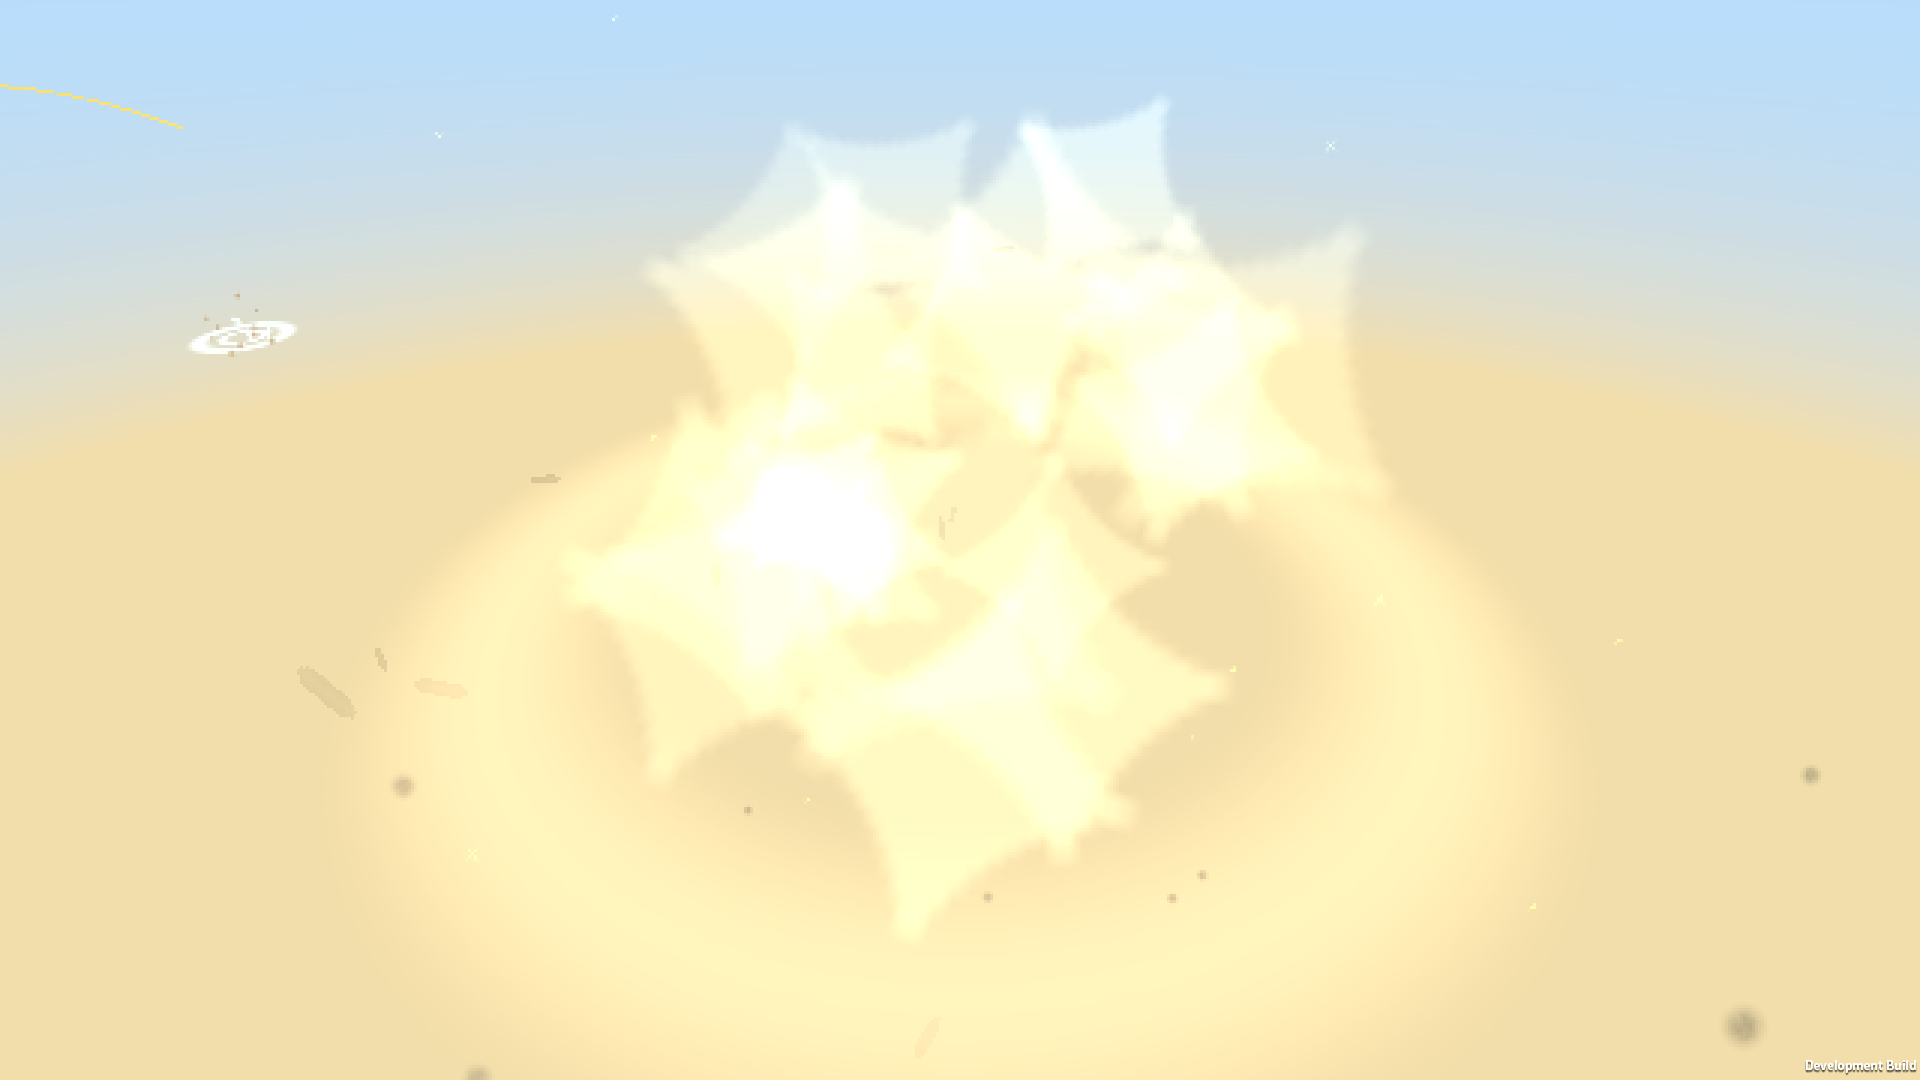
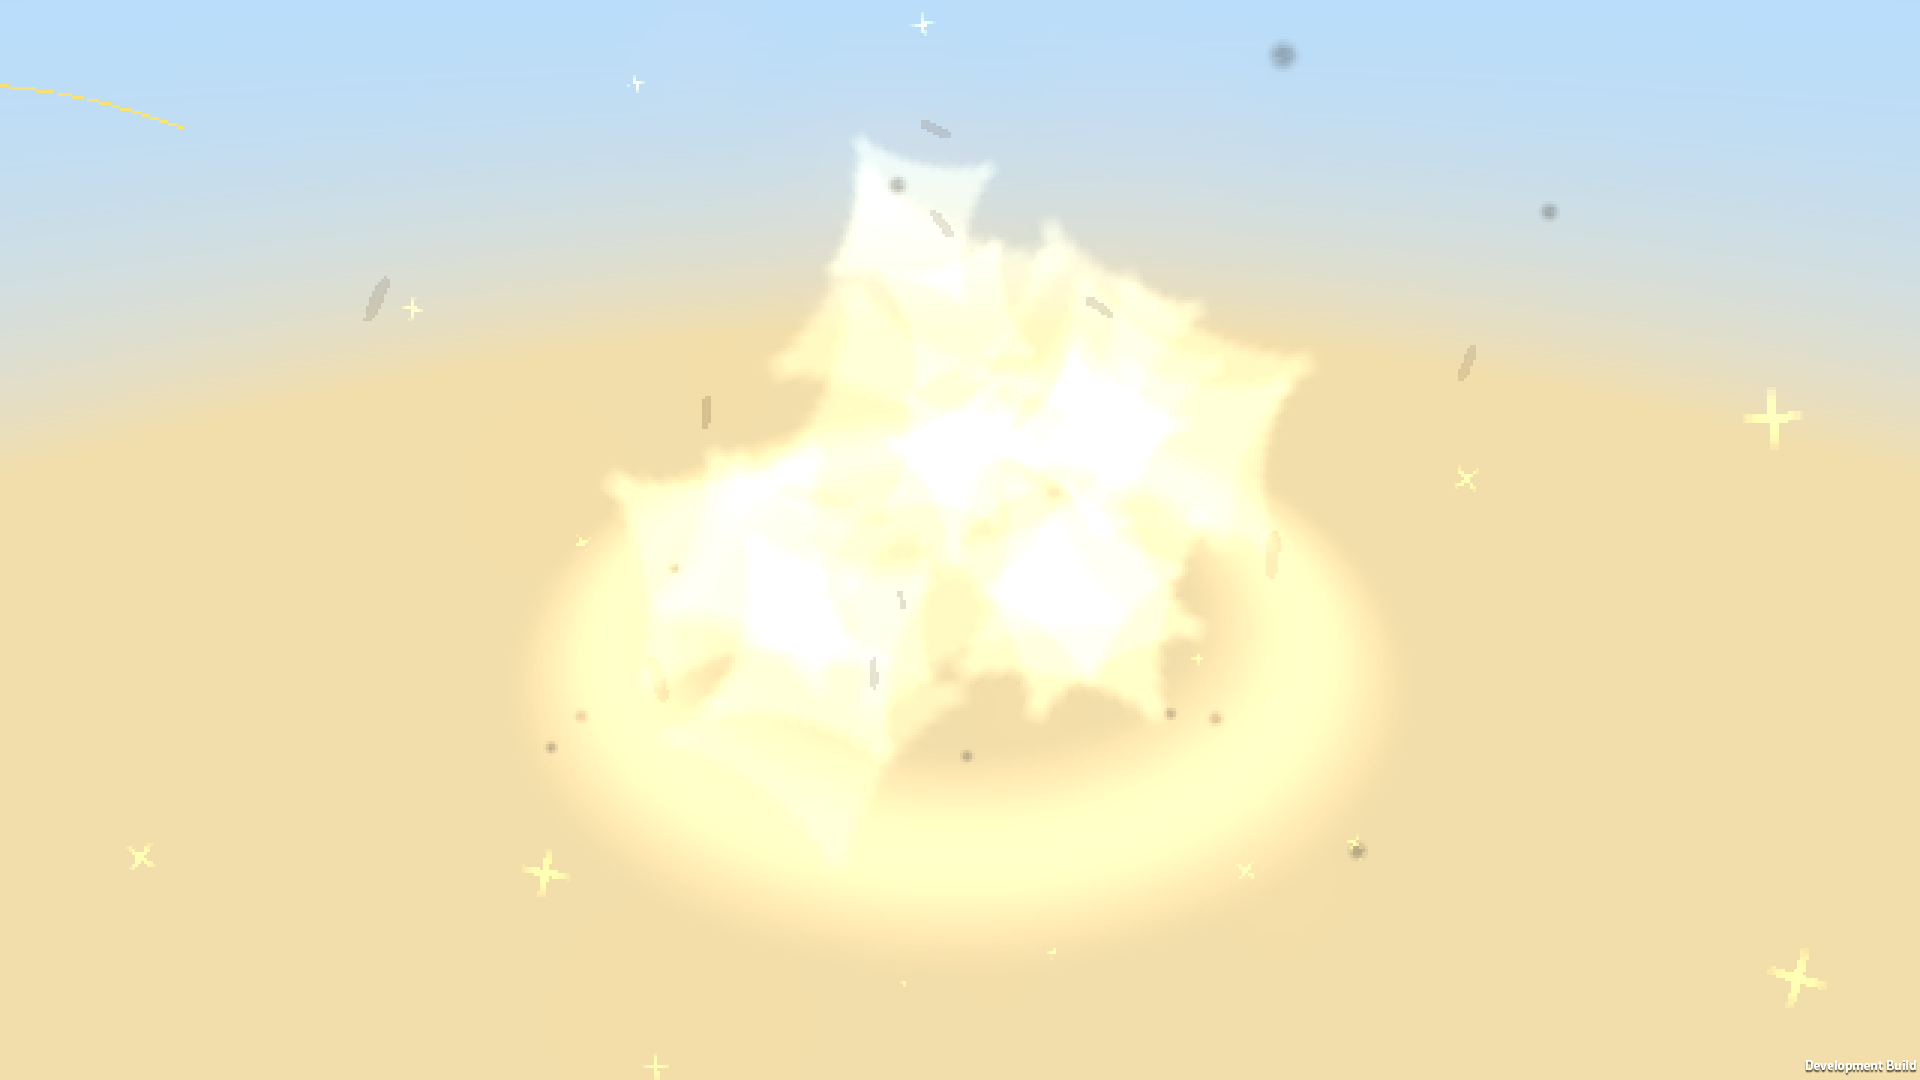
fix(battle): 陈设件「地面垂直」根修——InstantiatePiece 不再覆盖 FBX 根自带的轴向旋转
创始人实机报告：选关进战斗后「一片平地」，转镜头发现「地面垂直了」——只有化工厂关坏，
关卡 1/3 正常。环绕采集器（ChemPlantOrbitCapture，临时诊断工具）实测：陈设件世界包围盒
(71.2, 48.2, 26.7)——模型深度立在 Y 上、高度躺在 Z 上，整体侧立 90°。

根因：RuntimeSceneArt.InstantiatePiece 用 Instantiate(prefab, pos, rotation, parent) 的
显式旋转重载，把预制根节点自带的旋转覆盖成 identity——FBX 导入件（两代化工厂）的根上
挂着轴向约定转换（+90°X，Blender Z-up → Unity Y-up），被抹掉后网格原始 Z-up 数据原样
渲染 ⇒ 侧立。编辑器烘的预制（云场/空岛）根旋转恒 identity，故关卡 1/3 从不受影响；
化工厂是第一批以 FBX 本体进战斗场景的陈设，这个潜伏 bug 首次暴露。

修复：yaw 与预制自带旋转**复合**（Euler(0,yaw,0) × prefab.transform.localRotation）——
对 identity 预制是无操作（关卡 1/3 行为逐位不变），对 FBX 件保命；yaw 语义不变
（绕世界 Y 的朝向，作用于模型自身姿态之后）。L4/L5 环绕实拍确认横正。

产物：docs/images/chemplant-scene/ingame-play/play-*.png（环绕采集 4 张入正册）；
战斗美术评审固定机位对非标准场地不可用（瞄准点按 20×15 手抄）另立待办。

diff --git a/pirate-crew/Assets/Scripts/PirateCrew/ArtReview/ChemPlantOrbitCapture.cs b/pirate-crew/Assets/Scripts/PirateCrew/ArtReview/ChemPlantOrbitCapture.cs
@@ -1,0 +1,152 @@
+using System.Collections;
+using System.IO;
+using PirateCrew.Battle;
+using PirateCrew.Core;
+using UnityEngine;
+using UnityEngine.SceneManagement;
+
+namespace PirateCrew.ArtReview
+{
+    /// <summary>
+    /// 【临时诊断工具】绕场环绕采集：进战斗后禁用跟随相机，绕场地中心 360°×3 层高度拍照，
+    /// 用于复现创始人报告的「地面垂直」——正常出图通道的固定机位看不到的东西，环绕一圈就能看到。
+    /// 用完即删，不入库口径。
+    ///
+    /// 用法：播放器 -orbitOut &lt;绝对目录&gt; -orbitLevel 4|5
+    /// </summary>
+    public static class ChemPlantOrbitCapture
+    {
+        [GameBootstrap(GameBootstrapPhase.Initialize, order: 150)]
+        internal static void Install()
+        {
+            string outDir = GetArg("-orbitOut");
+            int level = GetIntArg("-orbitLevel");
+            if (string.IsNullOrEmpty(outDir) || level <= 0)
+                return;
+
+            outDir = Path.GetFullPath(outDir);
+            ArtReview.ArtReviewCaptureOverride.LevelNumber = level;   // 复用官方关卡覆盖通道
+            var go = new GameObject("[ChemPlantOrbitCapture]");
+            go.AddComponent<OrbitRunner>().Setup(outDir, level);
+            Object.DontDestroyOnLoad(go);
+        }
+
+        static string GetArg(string name)
+        {
+            var args = System.Environment.GetCommandLineArgs();
+            for (int i = 0; i < args.Length - 1; i++)
+            {
+                if (args[i] == name)
+                    return args[i + 1];
+            }
+            return null;
+        }
+
+        static int GetIntArg(string name)
+        {
+            string v = GetArg(name);
+            return v != null && int.TryParse(v, out int n) ? n : 0;
+        }
+
+        sealed class OrbitRunner : MonoBehaviour
+        {
+            string _outDir;
+            int _level;
+
+            public void Setup(string outDir, int level)
+            {
+                _outDir = outDir;
+                _level = level;
+            }
+
+            IEnumerator Start()
+            {
+                // 等 Bootstrapper 引导完成（它会异步加载主菜单并顶掉抢先加载的场景），再切 Battle。
+                float bootDeadline = Time.unscaledTime + 15f;
+                while (SceneManager.GetActiveScene().name != "MainMenu" && Time.unscaledTime < bootDeadline)
+                    yield return null;
+                yield return new WaitForSeconds(0.5f);
+                SceneManager.LoadScene("Battle", LoadSceneMode.Single);
+                yield return new WaitForSeconds(3f);   // 等战斗装配 + 单位生成
+
+                var driver = Object.FindObjectOfType<BattleCameraDriver>();
+                if (driver != null)
+                    driver.enabled = false;            // 停掉跟随，相机归我
+
+                yield return null;
+
+                Vector3 center = ResolveCenter();
+                Debug.Log("[Orbit] level=" + _level + " center=" + center.ToString("0.0"));
+
+                cam = Camera.main;
+                if (cam == null)
+                {
+                    Debug.LogError("[Orbit] 找不到主相机");
+                    yield break;
+                }
+
+                Directory.CreateDirectory(_outDir);
+                float[] heights = { 14f, 34f, 70f };
+                float radius = 42f;
+                int shot = 0;
+                foreach (float h in heights)
+                {
+                    for (int i = 0; i < 12; i++)
+                    {
+                        float a = i * 30f * Mathf.Deg2Rad;
+                        Vector3 pos = center + new Vector3(Mathf.Cos(a) * radius, h, Mathf.Sin(a) * radius);
+                        cam.transform.position = pos;
+                        cam.transform.LookAt(center + Vector3.up * 4f);
+                        yield return new WaitForEndOfFrame();
+                        yield return new WaitForEndOfFrame();
+                        ScreenCapture.CaptureScreenshot(Path.Combine(_outDir,
+                            "L" + _level + "-h" + (int)h + "-a" + (i * 30) + ".png"));
+                        shot++;
+                        yield return new WaitForSeconds(0.15f);
+                    }
+                }
+
+                Debug.Log("[Orbit] 完成 " + shot + " 张");
+                yield return new WaitForSeconds(1f);
+                Application.Quit();
+            }
+
+            Camera cam;
+
+            Vector3 ResolveCenter()
+            {
+                // 优先：陈设件实例（化工厂整场件）的包围盒中心
+                foreach (var name in new[] { "ChemPlantTeamYard", "ChemPlantYard" })
+                {
+                    var go = GameObject.Find(name);
+                    if (go == null) continue;
+                    var renderers = go.GetComponentsInChildren<MeshRenderer>();
+                    if (renderers.Length == 0) continue;
+                    Bounds b = renderers[0].bounds;
+                    for (int i = 1; i < renderers.Length; i++) b.Encapsulate(renderers[i].bounds);
+                    Debug.Log("[Orbit] 陈设件 " + name + " bounds=" + b.size.ToString("0.0")
+                        + " center=" + b.center.ToString("0.0"));
+                    Transform t = go.transform;
+                    while (t != null)
+                    {
+                        Debug.Log("[Orbit]   链 " + t.name + " localRot=" + t.localRotation.eulerAngles.ToString("0.0")
+                            + " worldRot=" + t.rotation.eulerAngles.ToString("0.0")
+                            + " localPos=" + t.localPosition.ToString("0.0")
+                            + " lossyScale=" + t.lossyScale.ToString("0.00"));
+                        t = t.parent;
+                    }
+                    return new Vector3(b.center.x, 0f, b.center.z);
+                }
+                // 兜底：地形碰撞盒
+                var terrain = Object.FindObjectOfType<BattleTerrainView>();
+                if (terrain != null)
+                {
+                    var col = terrain.GetComponentInChildren<Collider>();
+                    if (col != null)
+                        return new Vector3(col.bounds.center.x, 0f, col.bounds.center.z);
+                }
+                return new Vector3(25f, 0f, 8.5f);
+            }
+        }
+    }
+}

diff --git a/pirate-crew/Assets/Scripts/PirateCrew/Battle/RuntimeSceneArt.cs b/pirate-crew/Assets/Scripts/PirateCrew/Battle/RuntimeSceneArt.cs
@@ -125,7 +125,13 @@ namespace PirateCrew.Battle
                 return false;
             }
 
-            Quaternion rotation = Quaternion.Euler(0f, placement.YawDegrees, 0f);
+            // 【yaw 与预制自带旋转复合，不许替换】Instantiate 的显式旋转重载会**覆盖**预制根节点
+            // 自带的旋转——FBX 导入件（化工厂两代）的根上挂着轴向约定转换（+90°X，Blender Z-up→
+            // Unity Y-up），被替换后整场模型立起来（创始人 2026-09-29 实测「地面垂直了」）。
+            // 编辑器烘的预制（云场/空岛）根旋转恒 identity，复合对它们是无操作；FBX 件则保命。
+            // yaw 语义不变：绕**世界** Y 轴的朝向，作用于模型自身姿态之后。
+            Quaternion rotation = Quaternion.Euler(0f, placement.YawDegrees, 0f)
+                * prefab.transform.localRotation;
             GameObject instance = Instantiate(prefab, placement.Position, rotation, Root);
             instance.name = placement.InstanceName;
             _instances.Add(instance);

diff --git a/docs/images/chemplant-scene/README.md b/docs/images/chemplant-scene/README.md
@@ -42,13 +42,22 @@
 
 ## 四、实机图（游戏本体跑出来的，不是 Blender 渲染）
 
-| 图 | 机位 / 说明 |
+**玩法实拍**（环绕采集：进战斗、禁用跟随相机、绕场心 360°×3 层高度自动拍照，工具
+`ChemPlantOrbitCapture`，播放器 `-orbitOut <目录> -orbitLevel 5`）：
+
+| 图 | 内容 |
 | --- | --- |
-| [ingame/pl5-wide.png](ingame/pl5-wide.png) | 宽机位（可见高度 32 m；正交 30°、放大 2×） |
-| [ingame/pl5-mid.png](ingame/pl5-mid.png) | 中机位（14 m ＝ 游戏内正交档 7，与玩家能看到的那一档同源） |
-| [ingame/pl5-close.png](ingame/pl5-close.png) | 近机位（7 m） |
-| [ingame/pl5-mid-density.png](ingame/pl5-mid-density.png) | 中机位 + 抖动图案 A/B（**游戏内默认不开**，本张只为验证"抖动通路真的走通"） |
-| [ingame/pl5-dbg-albedo.png](ingame/pl5-dbg-albedo.png) · [ingame/pl5-dbg-outline.png](ingame/pl5-dbg-outline.png) | 调试缓冲（albedo / 描边），证明物体 pass 与描边趟真的写了 |
+| [ingame-play/play-high-overview.png](ingame-play/play-high-overview.png) | 70 m 俯瞰：28×20 格场地布局、道路、管廊、罐区、旁楼 |
+| [ingame-play/play-mid-buildings.png](ingame-play/play-mid-buildings.png) | 34 m 中层：旁楼窗带、卷帘门仓库、精馏塔、管廊桁架 |
+| [ingame-play/play-low-pipes.png](ingame-play/play-low-pipes.png) | 14 m 近地（= 游戏内正交档 7 的取景）：管廊下视角 |
+| [ingame-play/play-l04-tanks.png](ingame-play/play-l04-tanks.png) | 并行线 L4 同链验证（罐体/精馏塔/单位在场） |
+
+**像素试点场景**（独立小场景的取景口径出图，非战斗场景）：`ingame/pl5-*.png`（宽/中/近 +
+抖动 A/B + albedo/描边调试缓冲）——机位与构图口径见 `PixelartLevelScene` 取景表。
+
+**⚠ 固定机位美术评审图（`-artReviewOut -artReviewLevel 5` 的 `battle-45` 等十一张）对
+非标准场地不可用**：那组机位的瞄准点/距离按 20×15 标准竞技场手抄，28×20/32×22 的新关
+会框到地面或场边（实拍为证）。给新关补机位属相机侧任务（见待办）。
 
 **出图链**（可复现）：场景 `Assets/Scenes/PixelartChemPlantTeam.unity`（装配器
 `Assets/Pixelart/Editor/PixelartChemPlantTeamSetup.cs`，取景表关卡号 **5**）
